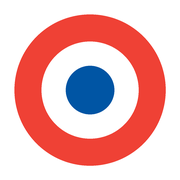
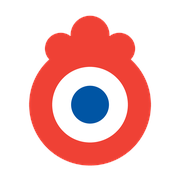
feat(brand): icône « cocarde à crête » + assets landing alignés
Dessin littéral du nom Coquade : la cocarde tricolore (bleu #0055A4 /
blanc / rouge #EF4135) gagne une crête de coq — trois lobes fondus
dans l'anneau rouge, cocarde décalée vers le bas pour laisser place à
la crête. Palette inchangée.

Pipeline en deux temps :
- scripts/generate-icons.py et le nouveau scripts/generate-landing-assets.py
  partagent la même géométrie (PIL, master 2048 supersamplé ×16, downscale
  LANCZOS) pour produire les formes : public/icon/{16,32,48,96,128}.png et
  landing/assets/{favicon-32,icon-128,apple-touch-icon}.png.
- landing/assets/og-image.png (1200×630) est rendue via Chrome headless
  depuis scripts/assets/og-image.html (nouveau) puis scripts/generate-og-image.sh
  (nouveau) : le texte rendu par PIL/ImageDraw était flou, un navigateur donne
  un rendu net. Le roundel SVG inline reprend la même géométrie (viewBox 128,
  constantes ×8 des scripts PIL) et les pastilles FR/EU/US reprennent les
  couleurs de badge.css.

docs/store-submission.md : case « Icône 128 px » cochée avec la décision
datée du 17 août 2026.

Vérifié : régénération bit-à-bit identique des trois pipelines (icônes,
favicons landing, og-image via Chrome headless) ; tsc --noEmit, vitest,
wxt build et wxt build -b firefox tous verts ; .output/chrome-mv3/icon/128.png
et .output/firefox-mv2/icon/128.png identiques (sha256) à public/icon/128.png ;
aucun changement de manifest, permissions, ni de code src/.

Changed region(s): [[0.0556, 0.0556, 0.9444, 0.9167], [0.3333, 0.7222, 0.6667, 0.8056], [0.4444, 0.9167, 0.5556, 0.9444]]

diff --git a/scripts/assets/og-image.html b/scripts/assets/og-image.html
@@ -1,0 +1,57 @@
+<!doctype html>
+<!-- Source de landing/assets/og-image.png — rendu navigateur (texte net),
+     capturé en 1200×630. Régénération : voir scripts/generate-og-image.sh -->
+<html lang="fr">
+<meta charset="utf-8">
+<style>
+  * { margin: 0; box-sizing: border-box; }
+  html, body { width: 1200px; height: 630px; overflow: hidden; }
+  body {
+    position: relative;
+    background: #fff;
+    font-family: -apple-system, BlinkMacSystemFont, 'Helvetica Neue', Helvetica, Arial, sans-serif;
+  }
+  .roundel { position: absolute; left: 78px; top: 130px; width: 370px; height: 370px; }
+  .col { position: absolute; left: 470px; top: 118px; width: 660px; }
+  h1 {
+    font-size: 96px; font-weight: 800; letter-spacing: -0.015em;
+    color: #14181D; line-height: 1.1;
+  }
+  p {
+    margin-top: 18px; font-size: 40px; line-height: 1.34; color: #4A5560;
+  }
+  .pills { margin-top: 30px; display: flex; gap: 18px; }
+  .pill {
+    height: 48px; padding: 0 24px; border-radius: 24px;
+    display: flex; align-items: center;
+    font-size: 27px; font-weight: 700; color: #fff;
+  }
+  .pill--fr { background: #1e40af; }
+  .pill--eu { background: #0369a1; }
+  .pill--us { background: #b91c1c; }
+  .bar { position: absolute; bottom: 0; height: 14px; }
+  .bar--blue { left: 0; width: 390px; background: #0055A4; }
+  .bar--red { right: 0; width: 390px; background: #EF4135; }
+</style>
+<body>
+  <svg class="roundel" viewBox="0 0 128 128" aria-hidden="true">
+    <circle cx="40" cy="30" r="13" fill="#EF4135"/>
+    <circle cx="64" cy="19" r="16" fill="#EF4135"/>
+    <circle cx="88" cy="30" r="13" fill="#EF4135"/>
+    <circle cx="64" cy="76" r="50" fill="#EF4135"/>
+    <circle cx="64" cy="76" r="31" fill="#fff"/>
+    <circle cx="64" cy="76" r="15.5" fill="#0055A4"/>
+  </svg>
+  <div class="col">
+    <h1>Coquade</h1>
+    <p>L'origine de vos produits — marque et fabrication — directement sur votre drive.</p>
+    <div class="pills">
+      <span class="pill pill--fr">FR</span>
+      <span class="pill pill--eu">EU</span>
+      <span class="pill pill--us">US</span>
+    </div>
+  </div>
+  <div class="bar bar--blue"></div>
+  <div class="bar bar--red"></div>
+</body>
+</html>

diff --git a/scripts/generate-landing-assets.py b/scripts/generate-landing-assets.py
@@ -1,0 +1,61 @@
+#!/usr/bin/env python3
+"""Génère les assets de la landing — favicon, icon-128, apple-touch-icon.
+
+Usage : python3 scripts/generate-landing-assets.py
+Produit dans landing/assets/ :
+  - favicon-32.png, icon-128.png : cocarde à crête sur fond transparent ;
+  - apple-touch-icon.png : 180 px sur fond blanc (iOS arrondit lui-même).
+
+L'og-image n'est PAS générée ici : le rendu de texte PIL est flou — elle est
+capturée par Chrome headless via scripts/generate-og-image.sh (source :
+scripts/assets/og-image.html).
+
+La géométrie de la cocarde à crête est calquée sur generate-icons.py — garder
+les deux scripts synchronisés si elle évolue.
+"""
+
+from PIL import Image, ImageDraw
+from pathlib import Path
+
+OUT = Path(__file__).resolve().parent.parent / "landing" / "assets"
+
+BLUE = (0, 85, 164, 255)     # #0055A4 — bleu du drapeau FR du badge
+WHITE = (255, 255, 255, 255)
+RED = (239, 65, 53, 255)     # #EF4135 — rouge du drapeau FR du badge
+def draw_coquade_master(s: int = 1024) -> Image.Image:
+    """Cocarde à crête, géométrie ×(s/1024) de generate-icons.py."""
+    k = s / 1024
+    img = Image.new("RGBA", (s, s), (0, 0, 0, 0))
+    d = ImageDraw.Draw(img)
+    comb = [(320, 240, 104), (512, 152, 128), (704, 240, 104)]
+    for cx, cy, r in comb:
+        d.ellipse([(cx - r) * k, (cy - r) * k, (cx + r) * k, (cy + r) * k], fill=RED)
+    for radius, color in ((400, RED), (248, WHITE), (124, BLUE)):
+        d.ellipse(
+            [(512 - radius) * k, (608 - radius) * k, (512 + radius) * k, (608 + radius) * k],
+            fill=color,
+        )
+    return img
+
+
+def save_favicons(master: Image.Image) -> None:
+    for name, size in (("favicon-32.png", 32), ("icon-128.png", 128)):
+        master.resize((size, size), Image.LANCZOS).save(OUT / name)
+        print(f"  landing/assets/{name}")
+
+
+def save_apple_touch(master: Image.Image) -> None:
+    size, inner = 180, 156
+    img = Image.new("RGBA", (size, size), WHITE)
+    icon = master.resize((inner, inner), Image.LANCZOS)
+    img.paste(icon, ((size - inner) // 2, (size - inner) // 2), icon)
+    img.save(OUT / "apple-touch-icon.png")
+    print("  landing/assets/apple-touch-icon.png")
+
+
+if __name__ == "__main__":
+    OUT.mkdir(parents=True, exist_ok=True)
+    master = draw_coquade_master(2048)
+    save_favicons(master)
+    save_apple_touch(master)
+    print("OK (og-image : bash scripts/generate-og-image.sh)")

diff --git a/scripts/generate-icons.py b/scripts/generate-icons.py
@@ -1,11 +1,16 @@
 #!/usr/bin/env python3
-"""Génère public/icon/{16,32,48,96,128}.png — la cocarde tricolore, plein cadre.
+"""Génère public/icon/{16,32,48,96,128}.png — la cocarde à crête, plein cadre.
 
 Usage : python3 scripts/generate-icons.py
-Master 1024 px anti-aliasé (downscale LANCZOS). Cercles concentriques aux
-couleurs du drapeau du badge (bleu #0055A4 au centre, blanc, rouge #EF4135 à
-l'extérieur — l'ordre de la cocarde française). Plein cadre, sans tuile : le
-bord extérieur est rouge, donc lisible sur fond clair comme sombre.
+Master 1024 px anti-aliasé (downscale LANCZOS). La cocarde tricolore (bleu
+#0055A4 au centre, blanc, rouge #EF4135 à l'extérieur — l'ordre de la cocarde
+française) gagne une crête de coq : trois lobes rouges fondus dans l'anneau
+extérieur. C'est le nom Coquade dessiné — la cocarde qui devient coq. Le bord
+extérieur rouge reste lisible sur fond clair comme sombre.
+
+Géométrie calquée sur la maquette validée (viewBox 128, ici ×8) :
+lobes (40,30) r13 / (64,19) r16 / (88,30) r13 ; cocarde centre (64,76),
+rayons 50 / 31 / 15.5.
 """
 
 from PIL import Image, ImageDraw
@@ -18,17 +23,25 @@ BLUE = (0, 85, 164, 255)    # #0055A4 — bleu du drapeau FR du badge
 WHITE = (255, 255, 255, 255)
 RED = (239, 65, 53, 255)    # #EF4135 — rouge du drapeau FR du badge
 
-S = 1024  # canevas de travail (supersample)
-C = S // 2
-# Rayons calibrés pour rester lisibles à 16 px (≈ 0.97 / 0.62 / 0.31 du rayon).
-R_RED = 496
-R_WHITE = 318
-R_BLUE = 159
+S = 2048  # canevas de travail (supersample ×16 de la maquette 128)
+K = S / 1024  # géométrie exprimée à l'échelle 1024, comme la maquette ×8
+CX = 512
+CY = 608  # cocarde décalée vers le bas pour laisser la place à la crête
+R_RED = 400
+R_WHITE = 248
+R_BLUE = 124
+# Crête : (cx, cy, r) des trois lobes, fondus dans l'anneau rouge.
+COMB = [(320, 240, 104), (512, 152, 128), (704, 240, 104)]
 
 img = Image.new("RGBA", (S, S), (0, 0, 0, 0))
 d = ImageDraw.Draw(img)
+for cx, cy, r in COMB:
+    d.ellipse([(cx - r) * K, (cy - r) * K, (cx + r) * K, (cy + r) * K], fill=RED)
 for radius, color in ((R_RED, RED), (R_WHITE, WHITE), (R_BLUE, BLUE)):
-    d.ellipse([C - radius, C - radius, C + radius, C + radius], fill=color)
+    d.ellipse(
+        [(CX - radius) * K, (CY - radius) * K, (CX + radius) * K, (CY + radius) * K],
+        fill=color,
+    )
 
 OUT.mkdir(parents=True, exist_ok=True)
 for size in SIZES:

diff --git a/docs/store-submission.md b/docs/store-submission.md
@@ -75,8 +75,10 @@ prescrit pas (« évitez US » est réservé à la communication hors store).
       15 août 2026 : toujours bloqués par captcha Datadome en session
       automatisée — à capturer manuellement si souhaité. À compléter si
       possible : un cliché de la popup et du tooltip.
-- [ ] Icône 128 px : générée (`scripts/generate-icons.py`) — remplacer par un
-      vrai branding si souhaité, AVANT la 1re soumission.
+- [x] Icône 128 px : « cocarde à crête » (17 août 2026) — la cocarde tricolore
+      avec crête de coq, dessin littéral du nom Coquade. Générée par
+      `scripts/generate-icons.py` ; assets landing (favicon, apple-touch,
+      og-image) alignés via `scripts/generate-landing-assets.py`.
 - [ ] Email de contact vérifié sur le dashboard CWS.
 
 ## Par store
